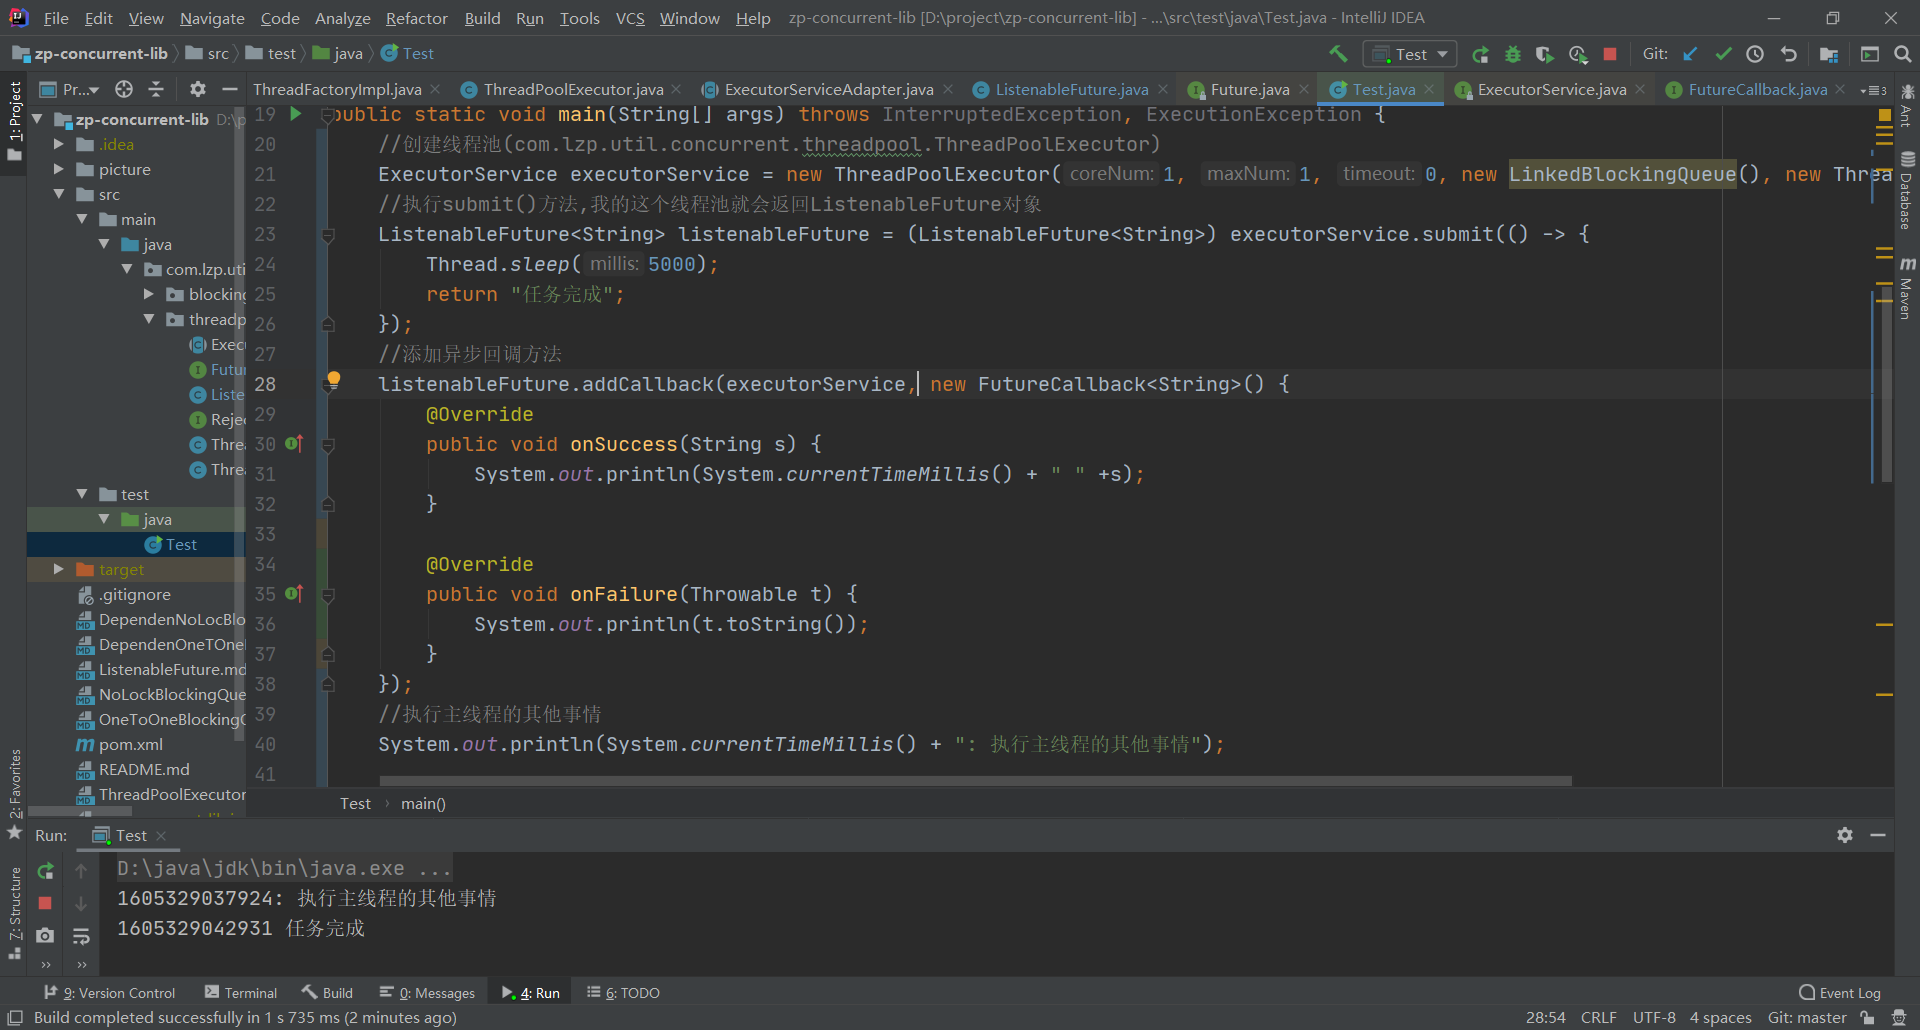
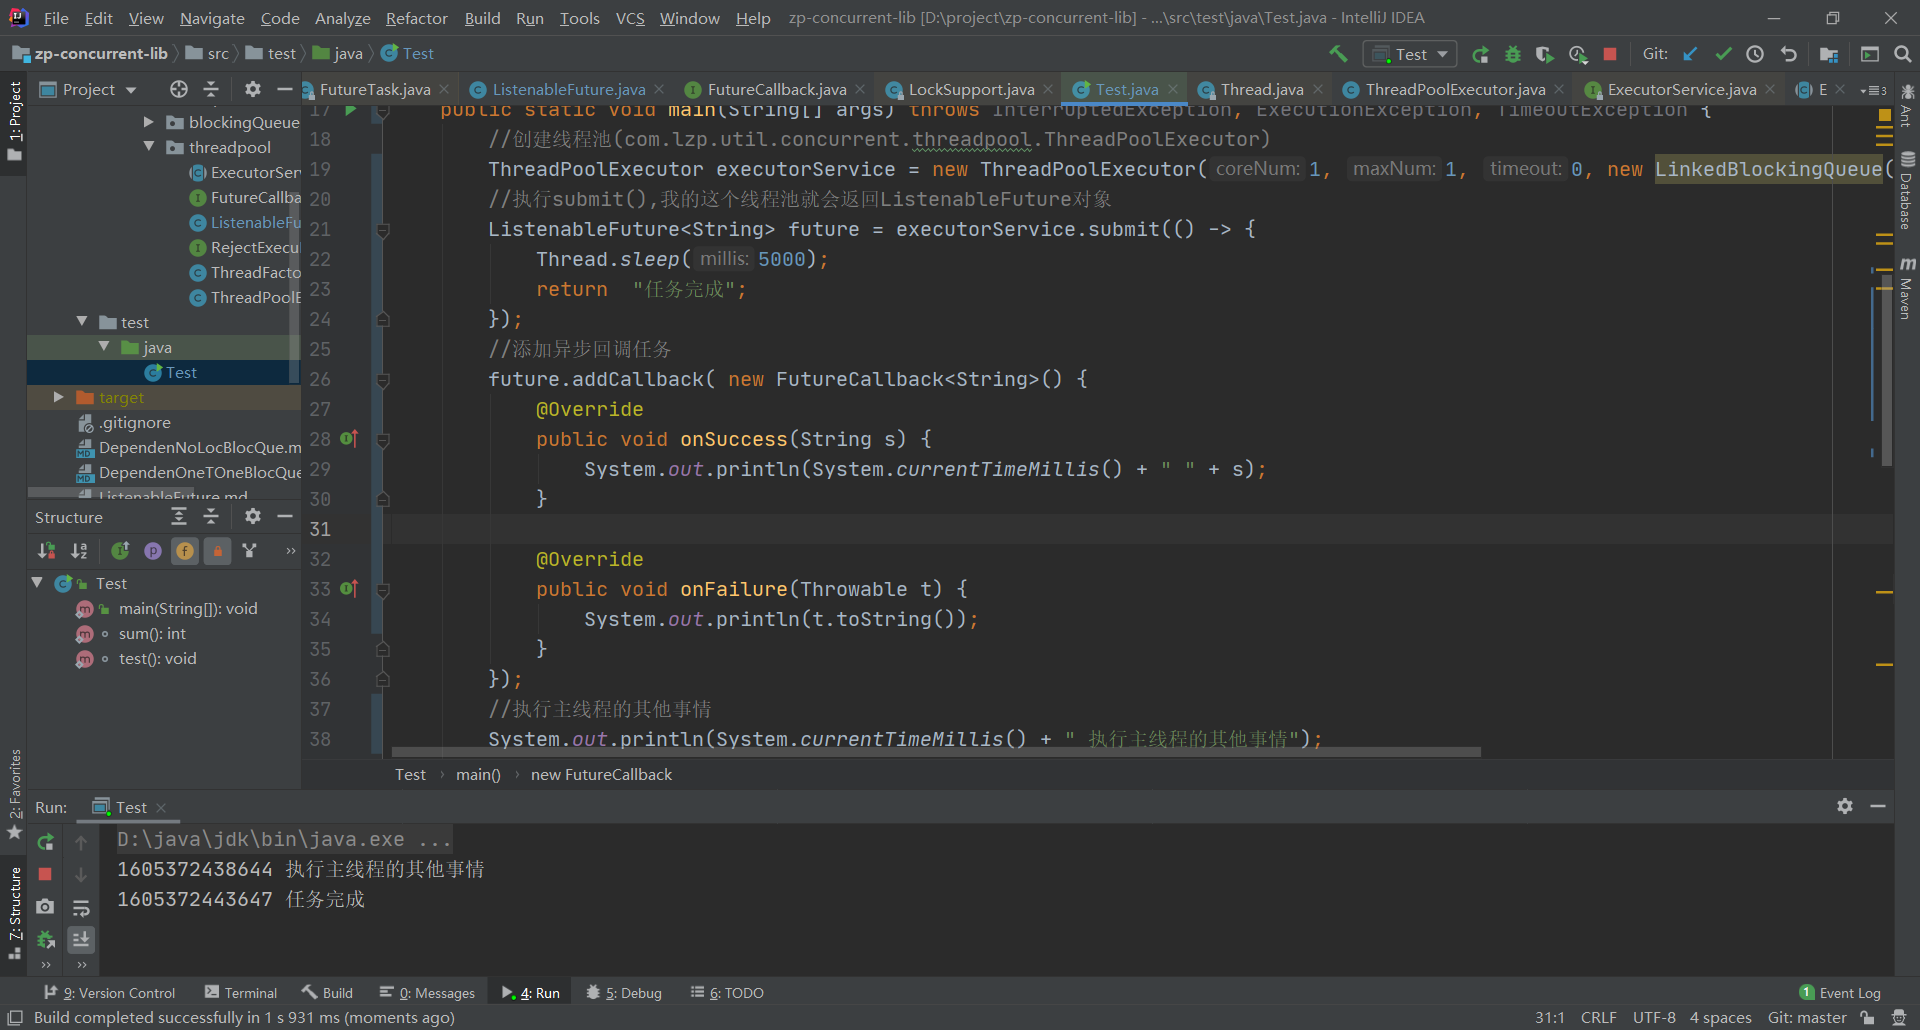
fix

diff --git a/src/main/java/com/lzp/util/concurrent/threadpool/ListenableFuture.java b/src/main/java/com/lzp/util/concurrent/threadpool/ListenableFuture.java
@@ -1,8 +1,11 @@
 package com.lzp.util.concurrent.threadpool;
 
+import java.util.ArrayList;
 import java.util.HashMap;
+import java.util.List;
 import java.util.Map;
 import java.util.concurrent.*;
+import java.util.concurrent.locks.LockSupport;
 
 /**
  * Description:可以添加异步回调方法的Future
@@ -26,6 +29,8 @@ public class ListenableFuture<R> implements Runnable, Future<R> {
 
     private volatile Throwable t;
 
+    private List<Thread> waitThreads = new ArrayList<>();
+
     private volatile Thread thread;
 
     private volatile int state = 0;
@@ -33,7 +38,7 @@ public class ListenableFuture<R> implements Runnable, Future<R> {
     /**
      * 回调任务以及相关执行器
      */
-    private Map<FutureCallback<R>,Executor> futureCallbackAndExces = new HashMap<>();
+    private List<FutureCallback<R>> futureCallbacks = new ArrayList<>();
 
     public ListenableFuture(Callable<R> runnable) {
         this.callable = runnable;
@@ -44,37 +49,46 @@ public class ListenableFuture<R> implements Runnable, Future<R> {
     public void run() {
         this.thread = Thread.currentThread();
         try {
-            synchronized (this) {
-                if (this.state != IS_CANCELED) {
-                    result = callable.call();
-                    //有可能在这上下两行中间被意外中断(cancel()方法里的逻辑)，所以下面第二行需要清除一次中断标记
-                    this.thread = null;
-                    Thread.interrupted();
-                    state = IS_DONE;
-                    if (futureCallbackAndExces.size() != 0) {
-                        for (Map.Entry<FutureCallback<R>, Executor> entry : futureCallbackAndExces.entrySet()) {
-                            entry.getValue().execute(() -> entry.getKey().onSuccess(result));
+            if (this.state != IS_CANCELED) {
+                result = callable.call();
+                //有可能在这上下两行中间被意外中断(cancel()方法里的逻辑)，所以下面第二行需要清除一次中断标记
+                this.thread = null;
+                Thread.interrupted();
+                state = IS_DONE;
+                synchronized (this) {
+                    if (waitThreads.size() != 0) {
+                        for (Thread thread : waitThreads) {
+                            LockSupport.unpark(thread);
                         }
-                        futureCallbackAndExces.clear();
+                    }
+                    if (futureCallbacks.size() != 0) {
+                        for (FutureCallback<R> futureCallback : futureCallbacks) {
+                            futureCallback.onSuccess(result);
+                        }
+                        futureCallbacks.clear();
                     }
                 }
-                this.notifyAll();
             }
         } catch (Throwable t) {
             if (this.t instanceof CancellationException) {
                 return;
             }
             this.t = t;
+            this.thread = null;
+            Thread.interrupted();
+            state = CATCH_THROWABLE;
             synchronized (this) {
-                this.thread = null;
-                state = CATCH_THROWABLE;
-                if (futureCallbackAndExces.size() != 0) {
-                    for (Map.Entry<FutureCallback<R>, Executor> entry : futureCallbackAndExces.entrySet()) {
-                        entry.getValue().execute(() -> entry.getKey().onFailure(t));
+                if (waitThreads.size() != 0) {
+                    for (Thread thread : waitThreads) {
+                        LockSupport.unpark(thread);
                     }
-                    futureCallbackAndExces.clear();
                 }
-                this.notifyAll();
+                if (futureCallbacks.size() != 0) {
+                    for (FutureCallback<R> futureCallback : futureCallbacks) {
+                        futureCallback.onFailure(t);
+                    }
+                    futureCallbacks.clear();
+                }
             }
         }
     }
@@ -108,11 +122,11 @@ public class ListenableFuture<R> implements Runnable, Future<R> {
                 }
                 synchronized (this) {
                     this.state = IS_CANCELED;
-                    if (futureCallbackAndExces.size() != 0) {
-                        for (Map.Entry<FutureCallback<R>, Executor> entry : futureCallbackAndExces.entrySet()) {
-                            entry.getValue().execute(() -> entry.getKey().onFailure(t));
+                    if (futureCallbacks.size() != 0) {
+                        for (FutureCallback<R> futureCallback : futureCallbacks) {
+                            futureCallback.onFailure(t);
                         }
-                        futureCallbackAndExces.clear();
+                        futureCallbacks.clear();
                     }
                     return true;
                 }
@@ -133,12 +147,16 @@ public class ListenableFuture<R> implements Runnable, Future<R> {
 
     @Override
     public R get() throws InterruptedException, ExecutionException {
-        if (this.state == IS_CANCELED){
+        if (this.state == IS_CANCELED) {
             throw (CancellationException) t;
         }
         synchronized (this) {
+            this.waitThreads.add(Thread.currentThread());
             while (this.state < IS_DONE) {
-                this.wait();
+                LockSupport.park();
+                if (Thread.interrupted()){
+                    throw new InterruptedException();
+                }
             }
         }
         if (this.state == CATCH_THROWABLE) {
@@ -153,12 +171,16 @@ public class ListenableFuture<R> implements Runnable, Future<R> {
         if (this.state == IS_CANCELED) {
             throw (CancellationException) t;
         }
-        long remainingTime = unit.toMillis(timeout);
+        long remainingTime = unit.toNanos(timeout);
         long deadLine = System.currentTimeMillis() + remainingTime;
         synchronized (this) {
+            this.waitThreads.add(Thread.currentThread());
             while (this.state < IS_DONE && remainingTime > 0) {
-                this.wait(remainingTime);
-                remainingTime = deadLine - System.currentTimeMillis();
+                LockSupport.parkNanos(remainingTime);
+                if (Thread.interrupted()) {
+                    throw new InterruptedException();
+                }
+                remainingTime = deadLine - System.nanoTime();
             }
             if (this.state < IS_DONE) {
                 throw new TimeoutException();
@@ -173,32 +195,23 @@ public class ListenableFuture<R> implements Runnable, Future<R> {
     }
 
     /**
-     * @description 添加回调任务。回调任务是可以添加多个的,不管添加几个,都会执行
-     * @param executor 异步执行任务的执行器
      * @param futureCallback 回调接口实现类
+     * @description 添加回调任务。回调任务是可以添加多个的,不管添加几个,都会执行
      */
-    public void addCallback(Executor executor, FutureCallback<R> futureCallback) {
-        if (executor == null || futureCallback == null) {
+    public void addCallback(FutureCallback<R> futureCallback) {
+        if (futureCallback == null) {
             throw new NullPointerException();
         }
         if (this.state > NEW) {
             if (this.state == IS_DONE) {
                 //有可能刚成功又被cancel了，但是不影响，这次就当成功好了
-                executor.execute(() -> futureCallback.onSuccess(result));
+                futureCallback.onSuccess(result);
             } else {
-                executor.execute(() -> futureCallback.onFailure(t));
+                futureCallback.onFailure(t);
             }
         } else {
             synchronized (this) {
-                if (this.state > NEW) {
-                    if (this.state == IS_DONE) {
-                        executor.execute(() -> futureCallback.onSuccess(result));
-                    } else {
-                        executor.execute(() -> futureCallback.onFailure(t));
-                    }
-                } else {
-                    this.futureCallbackAndExces.put(futureCallback, executor);
-                }
+                this.futureCallbacks.add(futureCallback);
             }
         }
     }

diff --git a/src/test/java/Test.java b/src/test/java/Test.java
@@ -14,20 +14,28 @@ import java.util.concurrent.*;
  * @date: 2020/8/9 11:46
  */
 public class Test {
-    public static void main(String[] args) throws InterruptedException, ExecutionException {
+    public static void main(String[] args) throws InterruptedException, ExecutionException, TimeoutException {
         //创建线程池(com.lzp.util.concurrent.threadpool.ThreadPoolExecutor)
-        ExecutorService executorService = new ThreadPoolExecutor(2, 2, 0, new LinkedBlockingQueue(), new ThreadFactoryImpl(""));
-        long now = System.currentTimeMillis();
-        Future future = executorService.submit(() -> {
-            try {
-                new CountDownLatch(1).await();
-            } catch (InterruptedException e) {
-                e.printStackTrace();
+        ThreadPoolExecutor executorService = new ThreadPoolExecutor(1, 1, 0, new LinkedBlockingQueue(), new ThreadFactoryImpl(""));
+        //执行submit(),我的这个线程池就会返回ListenableFuture对象
+        ListenableFuture<String> future = executorService.submit(() -> {
+            Thread.sleep(5000);
+            return  "任务完成";
+        });
+        //添加异步回调任务
+        future.addCallback( new FutureCallback<String>() {
+            @Override
+            public void onSuccess(String s) {
+                System.out.println(System.currentTimeMillis() + " " + s);
+            }
+
+            @Override
+            public void onFailure(Throwable t) {
+                System.out.println(t.toString());
             }
         });
-        Thread.sleep(1000);
-        future.cancel(true);
-        executorService.shutdown();
+        //执行主线程的其他事情
+        System.out.println(System.currentTimeMillis() + " 执行主线程的其他事情");
         /*System.out.println(((ThreadPoolExecutor)executorService).getPoolSize());
         Thread.sleep(15000);
         System.out.println(((ThreadPoolExecutor)executorService).getPoolSize());
